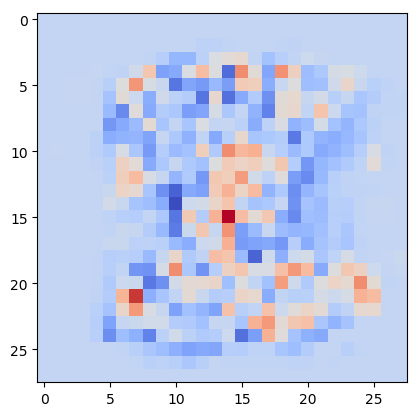
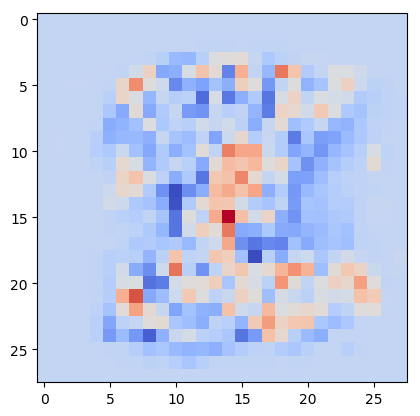
4 and 5 fixed

diff --git a/p2/digits.py b/p2/digits.py
@@ -43,6 +43,7 @@ def part3():
 #______________________________ PART 4 ______________________________#
 def part4():
     def f(n):
+        n = n if n else 1
         X = genX(M, TRAIN, n)
         Y = genY(M, TRAIN, n)
         W = np.zeros((NUM_LABEL, NUM_FEAT))
@@ -69,10 +70,10 @@ def part4():
     #saveObj(b, 'bias')
 
     for i in range(len(W)):
-        heatmap(W[i], 'pt4_weight_' + str(i))
+        heatmap(W[i], (28,28), 'pt4_weight_' + str(i))
 
-    x = np.arange(1, 100, 10)
-    linegraphFunc(f, x, 'pt4_learning_curve')
+    x = np.arange(0, 130, 10)
+    linegraphFunc(f, x, 'pt4_learning_curve_accuracy')
     return
 
 #______________________________ PART 5 ______________________________#
@@ -94,7 +95,7 @@ def part5():
         print('({}, {}) - point generated'.format(n, res))
         return res
 
-    x = np.arange(0, 100, 10)
+    x = np.arange(0, 130, 10)
     linegraphFunc(f, x, 'pt5_learning_curve')
     return
 

diff --git a/p2/NN.py b/p2/NN.py
@@ -68,6 +68,8 @@ def relativeError(a, b):
 
 def gradDescent(X, Y, W0, b0, momentum=False, out=True):
     i = 0
+    MR = 0.99
+    LR = 1e-4 if momentum else 0.005
     if momentum:
         Z = W0.copy()
         v = b0.copy()
@@ -81,13 +83,13 @@ def gradDescent(X, Y, W0, b0, momentum=False, out=True):
         bPrev = b.copy()
         P = forward(X, W, b)
         if momentum:
-            Z = GAMMA * Z + ALPHA * dC_weight(X, Y, P)
-            v = GAMMA * v + ALPHA * dC_bias(X, Y, P)
+            Z = MR * Z + LR * dC_weight(X, Y, P)
+            v = MR * v + LR * dC_bias(X, Y, P)
             W -= Z
             b -= v
         else:
-            W -= ALPHA * dC_weight(X, Y, P)
-            b -= ALPHA * dC_bias(X, Y, P)
+            W -= LR * dC_weight(X, Y, P)
+            b -= LR * dC_bias(X, Y, P)
         if i % 500 == 0 and out:
             print('Iter', i)
             print('C(Y, P) =', C(Y, P), '\n')

diff --git a/p2/plot.py b/p2/plot.py
@@ -10,7 +10,7 @@ def heatmap(x, shape, filename):
     img = np.reshape(x, shape)
     plt.imshow(img, cmap=cm.coolwarm)
     plt.savefig('plots/'+filename+'.png', bbox_inches='tight')
-    #plt.show()
+    plt.show()
     return
 
 def linegraphFunc(f, x, filename):

diff --git a/p2/const.py b/p2/const.py
@@ -26,8 +26,6 @@ IMG_SHAPE = (28, 28)
 
 STEP = 100
 EPS = 1e-5
-GAMMA = 0.99
-ALPHA = 0.025
 MAX_ITER = 10000
 
 TEST = 'test'
